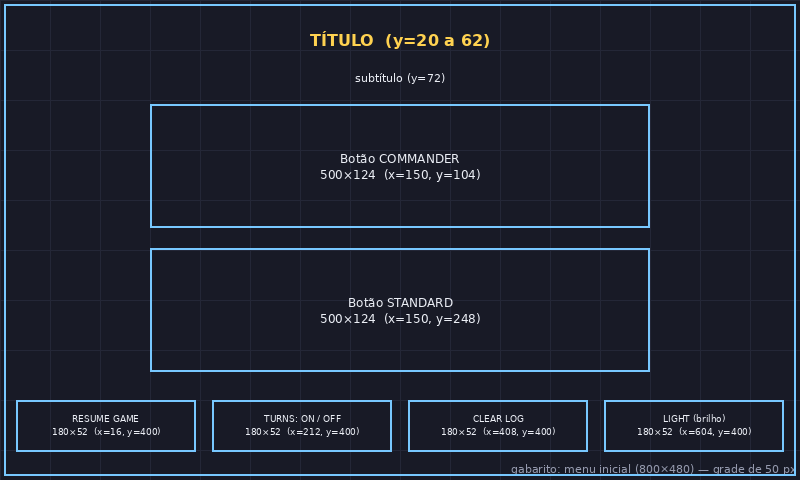
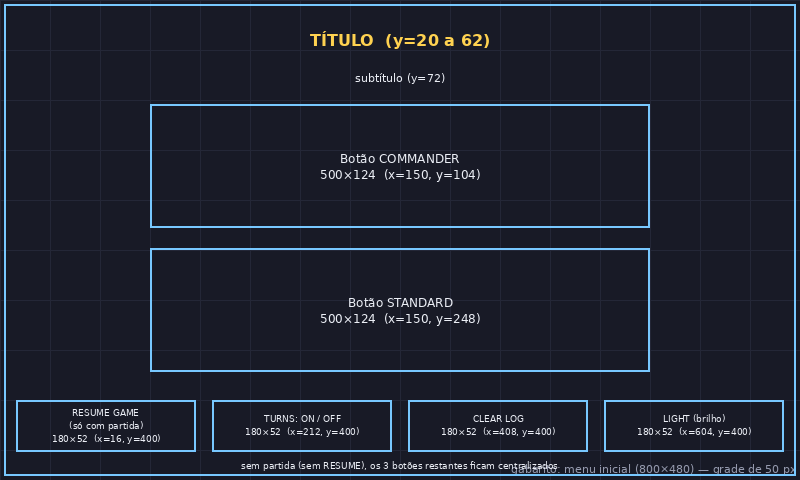
Centraliza os botões de baixo do menu
Sem partida em andamento, TURNS, CLEAR LOG e LIGHT ficam centralizados;
quando RESUME GAME aparece, entra à esquerda e empurra os outros.

Claude-Session: https://claude.ai/code/session_01YWfV3Tc69QfHFPimhwCmPm

Changed region(s): [[0.0625, 0.8438, 0.2188, 0.9375], [0.3125, 0.9688, 0.6875, 1.0]]

diff --git a/etapas/etapa07a11_visor/ui.cpp b/etapas/etapa07a11_visor/ui.cpp
@@ -255,22 +255,30 @@ void App::renderMenu() {
   gTexto("20 LIFE - 2 PLAYERS", 200, 166, 1, C_CIANO, C_PRETO, CENTRO);
   addHitL(75, 124, 250, 62, A_MENU_STD);
 
-  // linha de baixo: 4 botões de 90x26 (180x52 na tela)
-  if (game_.started()) {
-    gBotao(8, 200, 90, 26, EST_BTN_VERDE, "RESUME GAME");
-    addHitL(8, 200, 90, 26, A_MENU_RESUME);
+  // linha de baixo: botões de 90x26 (180x52 na tela), sempre centralizados.
+  // RESUME GAME só aparece com partida em andamento e empurra os outros para o lado.
+  const int bw = 90, bh = 26, gap = 8, by = 200;
+  bool resume = game_.started();
+  int qtd = resume ? 4 : 3;
+  int x = (TELA_W - (qtd * bw + (qtd - 1) * gap)) / 2;
+  if (resume) {
+    gBotao(x, by, bw, bh, EST_BTN_VERDE, "RESUME GAME");
+    addHitL(x, by, bw, bh, A_MENU_RESUME);
+    x += bw + gap;
   }
-  gBotao(106, 200, 90, 26, turnsOn_ ? EST_BTN_SELECIONADO : EST_BTN_NORMAL,
+  gBotao(x, by, bw, bh, turnsOn_ ? EST_BTN_SELECIONADO : EST_BTN_NORMAL,
          turnsOn_ ? "TURNS: ON" : "TURNS: OFF", 1, turnsOn_ ? C_PRETO : C_BRANCO);
-  addHitL(106, 200, 90, 26, A_MENU_TURNS);
+  addHitL(x, by, bw, bh, A_MENU_TURNS);
+  x += bw + gap;
   bool podeLimpar = game_.started() && game_.logCount() > 1;
-  gBotao(204, 200, 90, 26, podeLimpar ? EST_BTN_VERMELHO : EST_BTN_DESATIVADO, "CLEAR LOG", 1,
+  gBotao(x, by, bw, bh, podeLimpar ? EST_BTN_VERMELHO : EST_BTN_DESATIVADO, "CLEAR LOG", 1,
          podeLimpar ? C_BRANCO : C_CINZA);
-  addHitL(204, 200, 90, 26, A_MENU_CLEARLOG);
+  addHitL(x, by, bw, bh, A_MENU_CLEARLOG);
+  x += bw + gap;
   char buf[24];
   snprintf(buf, sizeof buf, "LIGHT %d/%d", brightIdx_ + 1, (int)sizeof(BRIGHT));
-  gBotao(302, 200, 90, 26, EST_BTN_ROXO, buf);
-  addHitL(302, 200, 90, 26, A_MENU_BRIGHT);
+  gBotao(x, by, bw, bh, EST_BTN_ROXO, buf);
+  addHitL(x, by, bw, bh, A_MENU_BRIGHT);
 }
 
 void App::renderSetup() {

diff --git a/docs/arte/gerar_gabaritos.py b/docs/arte/gerar_gabaritos.py
@@ -32,10 +32,11 @@ d.text((400, 40), "TÍTULO  (y=20 a 62)", fill=DESTAQUE, font=fonte(16, True), a
 d.text((400, 78), "subtítulo (y=72)", fill=TXT, font=fonte(11), anchor="mm")
 caixa(d, 150, 104, 500, 124, "Botão COMMANDER")
 caixa(d, 150, 248, 500, 124, "Botão STANDARD")
-caixa(d, 16, 400, 180, 52, "RESUME GAME", f=9)
+caixa(d, 16, 400, 180, 52, "RESUME GAME\n(só com partida)", f=9)
 caixa(d, 212, 400, 180, 52, "TURNS: ON / OFF", f=9)
 caixa(d, 408, 400, 180, 52, "CLEAR LOG", f=9)
 caixa(d, 604, 400, 180, 52, "LIGHT (brilho)", f=9)
+d.text((400, 466), "sem partida (sem RESUME), os 3 botões restantes ficam centralizados", fill=TXT, font=fonte(9), anchor="mm")
 im.save(os.path.join(AQUI, "gabarito_menu.png"))
 
 # 2) Tela de jogo com 4 jogadores

diff --git a/docs/fonte/diario.py b/docs/fonte/diario.py
@@ -146,6 +146,8 @@ HISTORICO = [
     ("25/11/2026", "Botão CLEAR LOG no menu principal (com confirmação): apaga o histórico e zera o UNDO, mantendo a partida. "
                    "Observação: o histórico já ocupa espaço fixo (200 linhas, ~12 KB, as antigas são sobrescritas), então ele "
                    "não deixa o aparelho mais pesado com o tempo; o botão serve para começar o histórico limpo."),
+    ("25/11/2026", "Linha de baixo do menu sempre centralizada: sem partida, TURNS, CLEAR LOG e LIGHT ficam no meio; "
+                   "quando o RESUME GAME aparece, ele entra à esquerda e empurra os outros."),
 ]
 
 # ----------------------------------------------------------------------------------- montagem
